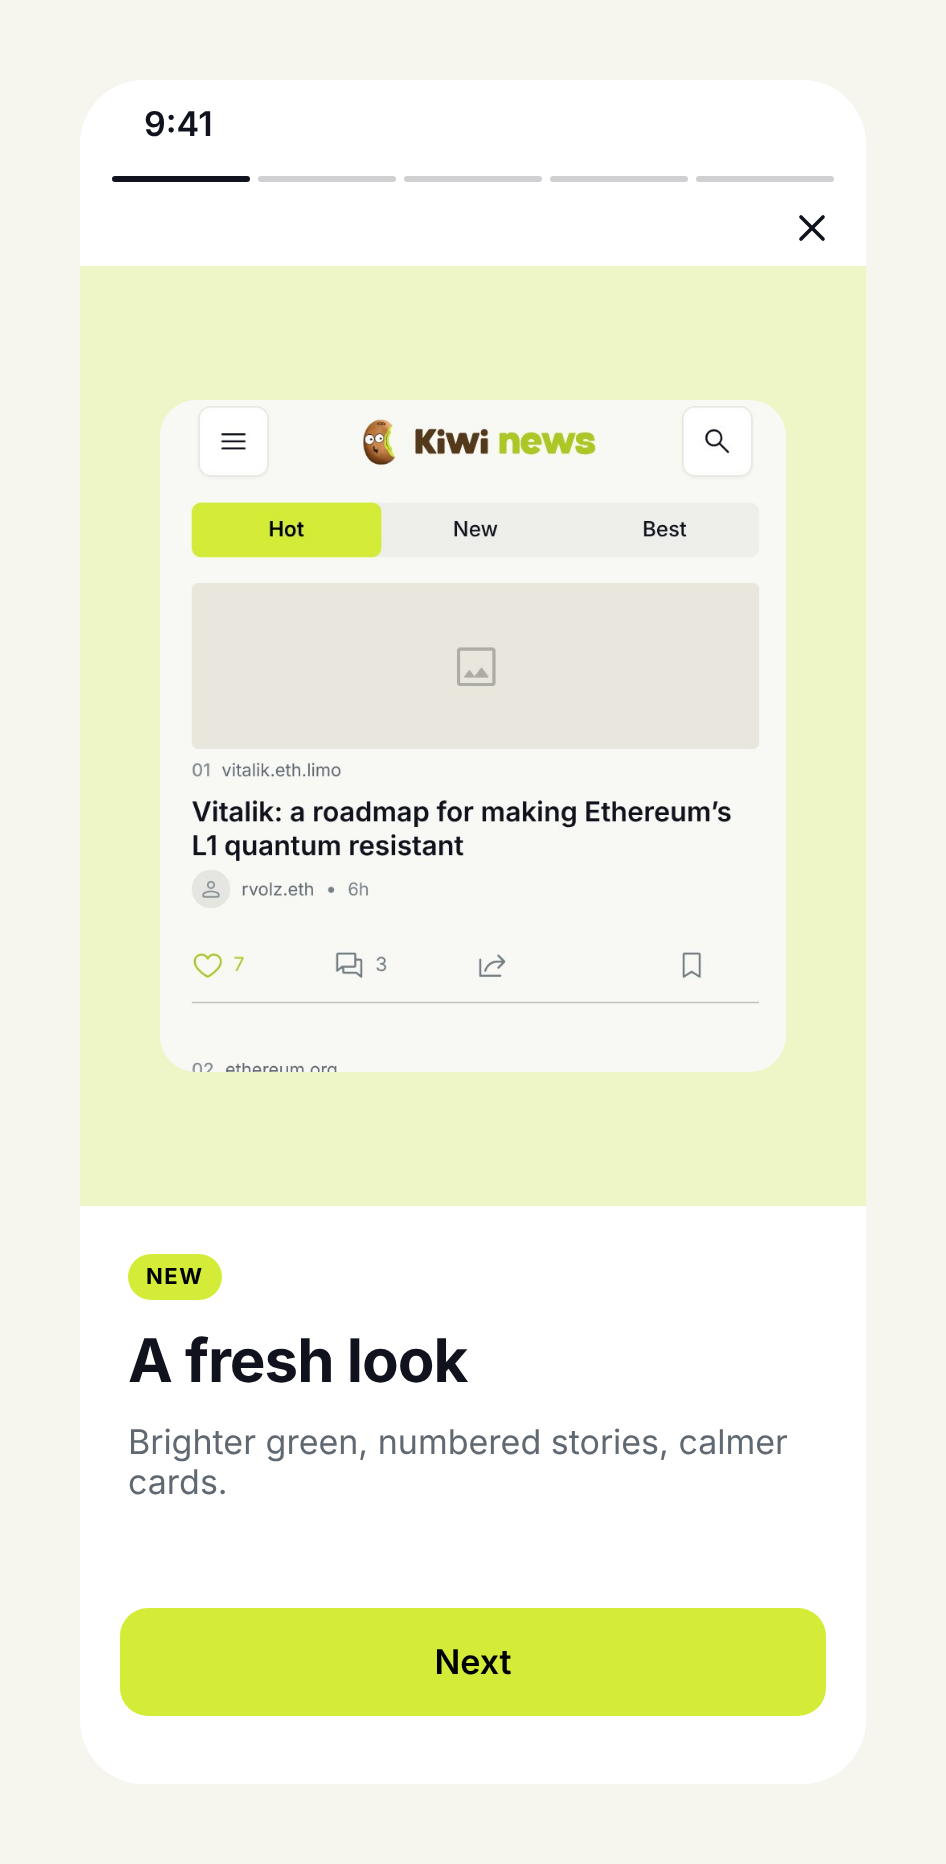
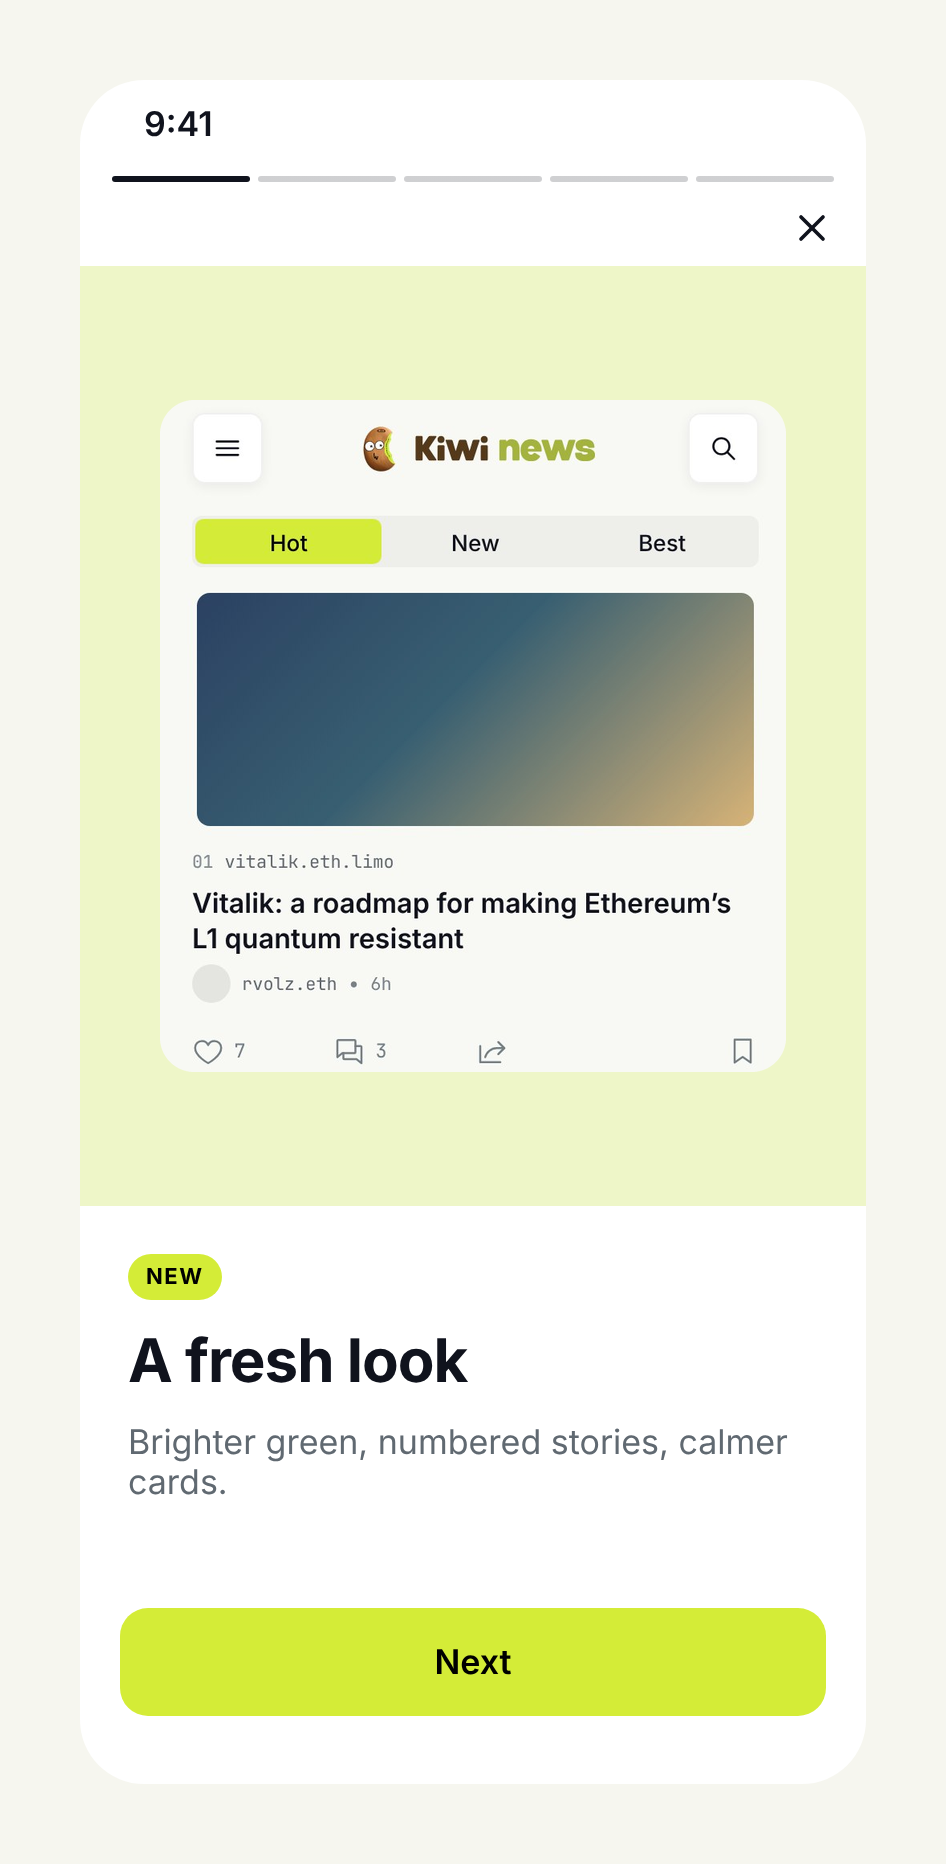
iOS redesign NEU 2: feed mockups from the code (main's picture ratios), What's new picture redrawn
Claude-Session: https://claude.ai/code/session_01SMVvgNvhTv5tdTHsuURqFb

Changed region(s): [[0.1839, 0.2178, 0.797, 0.529], [0.7357, 0.2178, 0.797, 0.2489], [0.2452, 0.5601, 0.2759, 0.5912]]

diff --git a/mockups/ios-redesign-neu2/feed/gen.py b/mockups/ios-redesign-neu2/feed/gen.py
@@ -1,0 +1,133 @@
+"""HTML mockup of the #40 feed (Home · Hot) with main's picture layout:
+link previews 2.4:1 with 8pt corners, uploads at their own ratio (max
+320pt tall), pictures 23pt from the screen edge (20pt row margin + 3pt
+pictureInset), as in KiwiNative/UI/StoryRow.swift and FeedView.swift."""
+import os, re, sys
+
+IOS = "/home/user/kiwi-ios-neu2"
+A = IOS + "/KiwiNews/Assets.xcassets"
+OUT = sys.argv[1]
+
+
+def svg(name, stroke_current=True):
+    d = os.path.join(A, name + ".imageset")
+    f = [x for x in os.listdir(d) if x.endswith(".svg")][0]
+    s = open(os.path.join(d, f)).read()
+    s = re.sub(r'\swidth="[^"]*"', "", s, count=1)
+    s = re.sub(r'\sheight="[^"]*"', "", s, count=1)
+    s = s.replace('stroke="#000000"', 'stroke="currentColor"').replace('fill="#000000"', 'fill="currentColor"')
+    if 'fill="currentColor"' not in s and 'stroke="currentColor"' not in s:
+        s = s.replace("<svg ", '<svg fill="currentColor" ', 1)
+    return s
+
+
+FONTS = "".join(
+    f"@font-face{{font-family:{fam};font-weight:{w};src:url(file://{IOS}/KiwiNative/Fonts/{fam.replace(' ', '')}-{n}.ttf)}}"
+    for fam in ("Inter", "JetBrains Mono")
+    for w, n in [(400, "Regular"), (500, "Medium"), (600, "SemiBold"), (700, "Bold")]
+)
+
+THEMES = {
+    "light": dict(page="#F8F9F4", tp="#10131D", ts="#78818A", tt="#606971", tm="#858D94", accent="#D4EC37",
+                  strong="#ADC724", vote="#737E85", track="#EEEFEA", glass="rgba(255,255,255,.96)",
+                  glassb="rgba(0,0,0,.06)", sep="rgba(60,60,67,.29)", strip="#F4F5EF", tabsel="#EEF6C8",
+                  brown="#55391B", green="#ADC724", btnbg="rgba(0,0,0,.08)",
+                  pic1="linear-gradient(135deg,#2b4162 0%,#385f71 45%,#d7b377 100%)",
+                  pic2="linear-gradient(160deg,#8fb996 0%,#4f7c5a 55%,#1f3b2c 100%)"),
+    "dark": dict(page="#191D17", tp="#F4F6EF", ts="#B3BCAE", tt="#C1C9BA", tm="#ABB5A5", accent="#D4EC37",
+                 strong="#D4EC37", vote="#B8C3AF", track="#2E3529", glass="rgba(41,49,36,.96)",
+                 glassb="rgba(255,255,255,.1)", sep="rgba(84,84,88,.6)", strip="#30372A", tabsel="#47541A",
+                 brown="#D9965A", green="#D4EC37", btnbg="rgba(255,255,255,.12)",
+                 pic1="linear-gradient(135deg,#2b4162 0%,#385f71 45%,#d7b377 100%)",
+                 pic2="linear-gradient(160deg,#8fb996 0%,#4f7c5a 55%,#1f3b2c 100%)"),
+}
+
+CSS = """
+*{box-sizing:border-box;margin:0;padding:0}
+body{width:393px;background:var(--page);font-family:Inter;color:var(--tp);-webkit-font-smoothing:antialiased;overflow:hidden}
+.mono{font-family:"JetBrains Mono"}
+.status{height:47px;display:flex;align-items:center;padding:0 40px;font-weight:600;font-size:17px}
+.nav{display:flex;align-items:center;justify-content:space-between;padding:4px 20px 8px}
+.gb{width:44px;height:44px;border-radius:8px;background:var(--glass);border:1px solid var(--glassb);box-shadow:0 2px 8px rgba(0,0,0,.06);display:flex;align-items:center;justify-content:center}
+.gb svg{width:20px;height:20px}
+.logo{display:flex;align-items:center;gap:8px}.logo img{width:29px;height:29px}
+.wm{position:relative;width:112px;height:16.33px}.wm span{position:absolute;inset:0}.wm svg{width:100%;height:100%}
+.seg{margin:12px 20px 0;height:32px;border-radius:6px;background:var(--track);display:flex;padding:2px}
+.seg div{flex:1;display:flex;align-items:center;justify-content:center;font-size:14px;font-weight:500;border-radius:5px}
+.seg .on{background:#D4EC37;color:#000}
+.row{margin:0 20px;padding:16px 0 12px;border-bottom:.5px solid var(--sep)}
+.pic{margin:0 3px;border-radius:8px;overflow:hidden}
+.preview{aspect-ratio:2.4/1}
+.texts{display:flex;flex-direction:column;gap:5px}
+.pic + .texts{margin-top:12px}
+.dl{height:20px;display:flex;align-items:center;gap:7px;font-size:11px}
+.rank{color:var(--tm);font-weight:500}.dom{color:var(--tt)}
+.title{font-size:17px;font-weight:600;line-height:22px}
+.sub{display:flex;align-items:center;gap:7px;color:var(--ts);font-size:12px}
+.av{width:24px;height:24px;border-radius:50%;background:var(--btnbg)}
+.sub .mono{font-size:11px}.sub .who{color:var(--tt)}
+.acts{display:flex;margin-top:8px;margin-bottom:4px;color:var(--vote);font-size:12px}
+.acts>div{flex:1;min-height:44px;display:flex;align-items:center;gap:6px}
+.acts>div:last-child{justify-content:flex-end}
+.acts svg{width:20px;height:20px}
+.cp{background:var(--strip);border-radius:4px;padding:9px;display:flex;gap:10px}
+.cp .av{width:28px;height:28px}.cp .n{font-size:11px;color:var(--tt)}.cp .t{font-size:13px;margin-top:3px}
+.tab{position:fixed;left:16px;right:16px;bottom:24px;height:62px;border-radius:8px;background:var(--glass);border:1px solid var(--glassb);box-shadow:0 4px 16px rgba(0,0,0,.08);display:flex;padding:4px}
+.tab div{flex:1;border-radius:4px;display:flex;flex-direction:column;align-items:center;justify-content:center;gap:4px;font-size:10px;font-weight:500}
+.tab .on{background:var(--tabsel)}
+.tab svg{width:22px;height:22px}
+"""
+
+ICONS = {'Home': '<svg viewBox="0 0 24 24" fill="none" stroke="currentColor" stroke-width="1.6" stroke-linejoin="round"><path d="M4 10.5 12 4l8 6.5V20h-5v-6H9v6H4z"/></svg>', 'New': '<svg viewBox="0 0 24 24" fill="none" stroke="currentColor" stroke-width="1.6" stroke-linecap="round"><circle cx="12" cy="12" r="2"/><path d="M8 8a5.5 5.5 0 0 0 0 8M16 8a5.5 5.5 0 0 1 0 8M5.2 5.2a9.5 9.5 0 0 0 0 13.6M18.8 5.2a9.5 9.5 0 0 1 0 13.6"/></svg>', 'Submit': '<svg viewBox="0 0 24 24" fill="none" stroke="currentColor" stroke-width="1.6" stroke-linejoin="round"><path d="M12 4H5v15h15v-7"/><path d="M17.5 3.5l3 3L12 15H9v-3z"/></svg>', 'Notifications': '<svg viewBox="0 0 24 24" fill="none" stroke="currentColor" stroke-width="1.6" stroke-linejoin="round"><path d="M6 17V11a6 6 0 0 1 12 0v6l1.5 2h-15z"/><path d="M10 21h4"/></svg>'}
+BOOKMARK = '<svg viewBox="0 0 24 24" fill="none" stroke="currentColor" stroke-width="1.5" stroke-linejoin="round"><path d="M6 3.5h12v17l-6-4.2-6 4.2z"/></svg>'
+MENU = '<svg viewBox="0 0 24 24" stroke="currentColor" stroke-width="1.6" stroke-linecap="round"><path d="M4 7h16M4 12h16M4 17h16"/></svg>'
+SEARCH = '<svg viewBox="0 0 24 24" fill="none" stroke="currentColor" stroke-width="1.6" stroke-linecap="round"><circle cx="10.5" cy="10.5" r="6"/><path d="M15 15l5 5"/></svg>'
+
+
+def acts(likes, comments):
+    return (f'<div class="acts mono"><div>{svg("IconHeart")}{likes}</div><div>{svg("IconComments")}{comments}</div>'
+            f'<div>{svg("IconShare")}</div><div>{BOOKMARK}</div></div>')
+
+
+def row(rank, domain, title, who, ago, likes, comments, pic=None, comment=None):
+    p = ""
+    if pic == "preview":
+        p = '<div class="pic preview" style="background:var(--pic1)"></div>'
+    elif pic == "upload":
+        # FeedImageLayout: full width at the picture's own ratio (4:3 here), max 320pt tall.
+        p = '<div class="pic" style="height:260.25px;background:var(--pic2)"></div>'
+    c = ""
+    if comment:
+        c = (f'<div class="cp"><div class="av"></div><div><div class="n mono">{comment[0]} • {comment[1]} ago</div>'
+             f'<div class="t">{comment[2]}</div></div></div>')
+    return (f'<div class="row">{p}<div class="texts"><div class="dl mono"><span class="rank">{rank:02d}</span>'
+            f'<span class="dom">{domain}</span></div><div class="title">{title}</div>'
+            f'<div class="sub"><div class="av"></div><span class="mono who">{who}</span>•<span class="mono">{ago}</span></div></div>'
+            f'{acts(likes, comments)}{c}</div>')
+
+
+def page(theme, tabbar=True):
+    t = THEMES[theme]
+    vars_ = ";".join(f"--{k}:{v}" for k, v in t.items())
+    body = (
+        '<div class="status">9:41</div>'
+        f'<div class="nav"><div class="gb">{MENU}</div><div class="logo"><img src="file://{A}/KiwiIcon.imageset/kiwi-icon@3x.png">'
+        f'<div class="wm"><span style="color:var(--brown)">{svg("WordmarkKiwi")}</span><span style="color:var(--green)">{svg("WordmarkNews")}</span></div></div>'
+        f'<div class="gb">{SEARCH}</div></div>'
+        '<div class="seg"><div class="on">Hot</div><div>New</div><div>Best</div></div>'
+        + row(1, "vitalik.eth.limo", "Vitalik: a roadmap for making Ethereum’s L1 quantum resistant", "rvolz.eth", "6h", 7, 3, pic="preview")
+        + row(2, "ethereum.org", "Introducing zkAPI: private usage credits for any API", "mishaderidder.eth", "8h", 2, 4,
+              comment=("timdaub.eth", "2h", "Really useful approach to privacy."))
+        + row(3, "kiwistand.com", "Our booth at Devconnect, day one", "timdaub.eth", "3h", 12, 2, pic="upload")
+    )
+    if tabbar:
+        body += ('<div class="tab">' + ''.join(f'<div class="{"on" if n == "Home" else ""}">{ICONS[n]}{n}</div>' for n in ICONS) + '</div>')
+    return f"<!doctype html><html><head><meta charset=utf-8><style>{FONTS}:root{{{vars_}}}{CSS}</style></head><body>{body}</body></html>"
+
+
+os.makedirs(OUT, exist_ok=True)
+for theme in THEMES:
+    open(os.path.join(OUT, f"home-hot{'' if theme == 'light' else '-dark'}.html"), "w").write(page(theme))
+# The What's new picture: the top of the light feed, no tab bar.
+open(os.path.join(OUT, "whatsnew-picture.html"), "w").write(page("light", tabbar=False).replace("<div class=\"status\">9:41</div>", "<div style=\"height:4px\"></div>"))
+print("ok")
